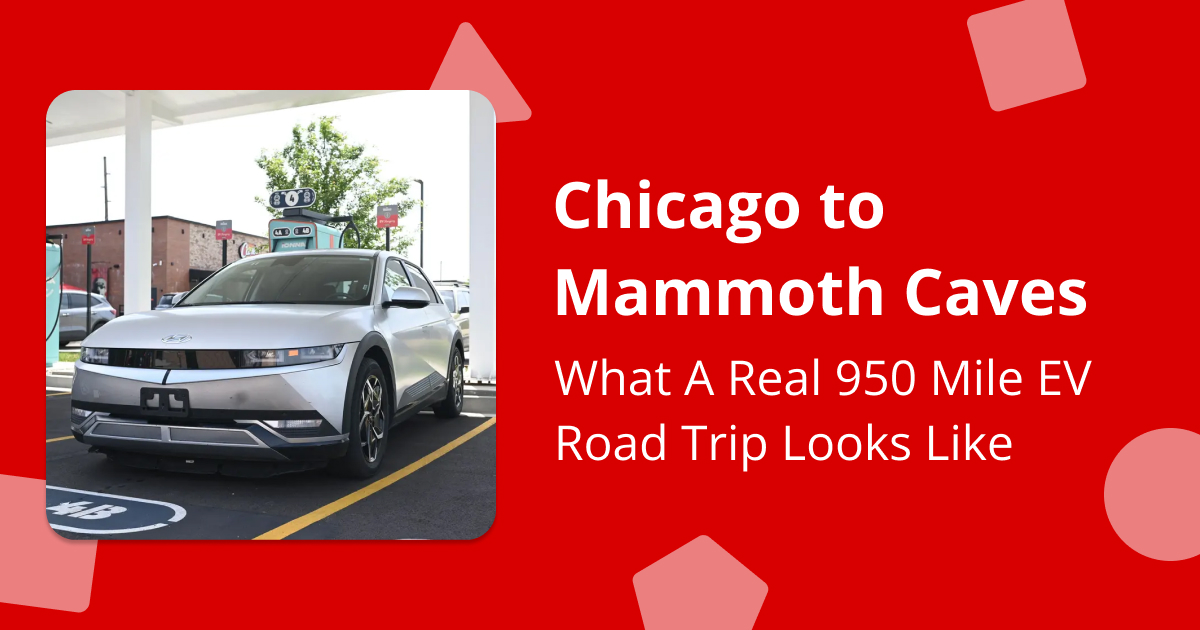
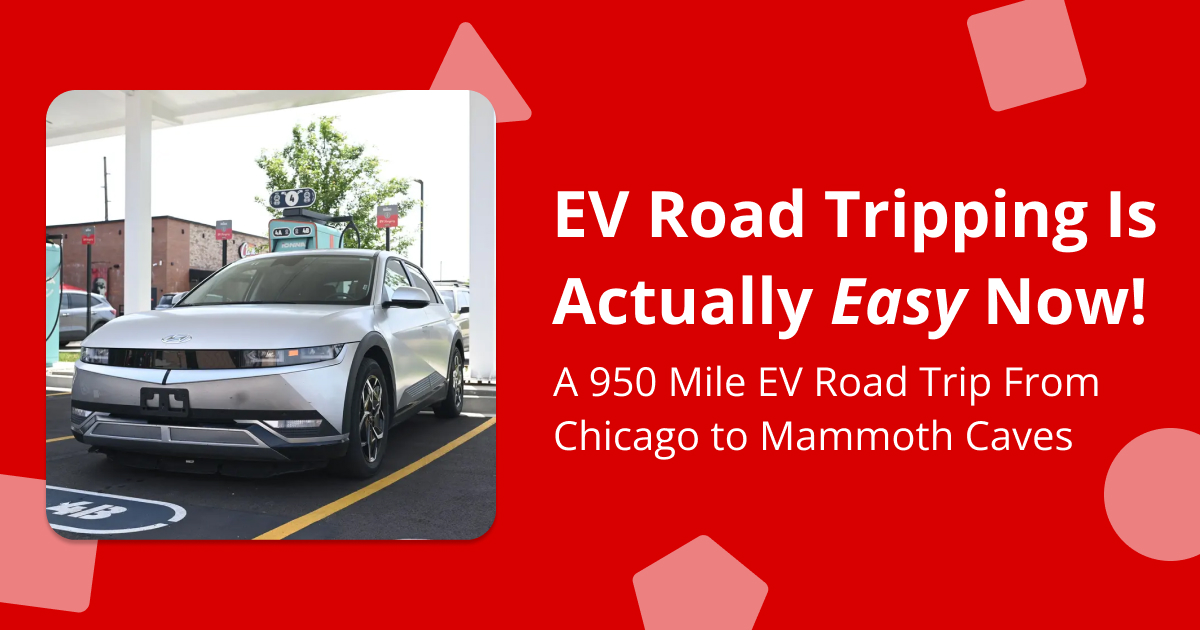
Rename EV article and update social image EV Road Tripping Is Easy Now is a way punchier name than 'Chicago to Mammoth Caves'

Changed region(s): [[0.4625, 0.2714, 0.9867, 0.5429], [0.4625, 0.6635, 0.8942, 0.754], [0.4625, 0.573, 0.925, 0.6333]]

diff --git a/css/articles/ev-road-trip.scss b/css/articles/ev-road-trip.scss
@@ -13,6 +13,10 @@ $cost-table-title-padding-y: 4px;
 // Vertical padding on the header and total band rows
 $cost-table-band-padding-y: 0.5rem;
 
+// Size of the subtitle under the post title, large enough to read as a deck
+// line but clearly secondary to the h1 above it
+$post-subtitle-font-size: 1.3125rem;
+
 // Gap between images in the multi-column image grids
 $image-grid-gap: 1rem;
 // Vertical breathing room above and below an image grid
@@ -47,6 +51,12 @@ $trip-progress-radius: 1rem;
     margin: 0.5rem 0 0 0;
     font-size: 0.875em;
   }
+}
+
+main.post .post-subtitle {
+  font-size: $post-subtitle-font-size;
+  margin-top: 0;
+  color: var(--text-color-faded);
 }
 
 .cost-table {

diff --git a/js/articles/ev-road-trip.js b/js/articles/ev-road-trip.js
@@ -12,8 +12,8 @@ const STOPS = [
     { label: 'Chicago',  id: 'chicago-start',  day: 1 },
     { label: 'Charge Stops', id: 'charging-day1',  day: 1, charging: true },
     { label: 'Mammoth Caves',   id: 'kentucky-arrival', day: 1 },
-    { label: 'Mammoth Caves',   id: 'kentucky-day2',    day: 2 },
-    { label: 'Charge Stops', id: 'charging-day2',  day: 2, charging: true },
+    { label: 'Leaving Kentucky',   id: 'kentucky-day2',    day: 2 },
+    { label: 'Return Charging', id: 'charging-day2',  day: 2, charging: true },
     { label: 'Chicago',  id: 'chicago-return', day: 2 },
 ];
 

diff --git a/_posts/2026-08-24-ev-road-tripping-is-actually-easy-now.md b/_posts/2026-08-24-ev-road-tripping-is-actually-easy-now.md
@@ -1,6 +1,11 @@
 ---
 layout: post
-title: "Chicago to Mammoth Caves: What A Real 950 Mile EV Road Trip Looks Like"
+title: "EV Road Tripping Is Actually Easy Now!"
+skipPostTitle: true
+excerpt:
+  When people talk about going electric, they are often concerned about road tripping. I'm here to
+  show you that modern EVs can tackle a road trip incredibly well - here's what a real 950 mile
+  drive from Chicago to Mammoth Caves actually looked like.
 metadata:
   image: https://viktorkoves.com/post-assets/ev-roadtrip/ev-roadtrip-social-image.png
   description:
@@ -11,6 +16,16 @@ stylesheets:
 scripts:
  - articles/ev-road-trip.js
 ---
+
+<div class="all-posts-cont">
+  <a href="/writing" id="all-posts" class="red-button">Back to All Writing</a>
+</div>
+
+<h1 class="page-title">EV Road Tripping Is Actually <em>Easy</em> Now!</h1>
+
+<p class="post-subtitle">A 950 Mile EV Road Trip From Chicago to Mammoth Caves</p>
+
+<p class="post-date">Published {{ page.date | date: "%B %d, %Y" }}</p>
 
 When people talk about going electric, they are often concerned about road tripping. You might
 think, &ldquo;an EV might be fine for my daily commute, but can I still make a long road trip for a
